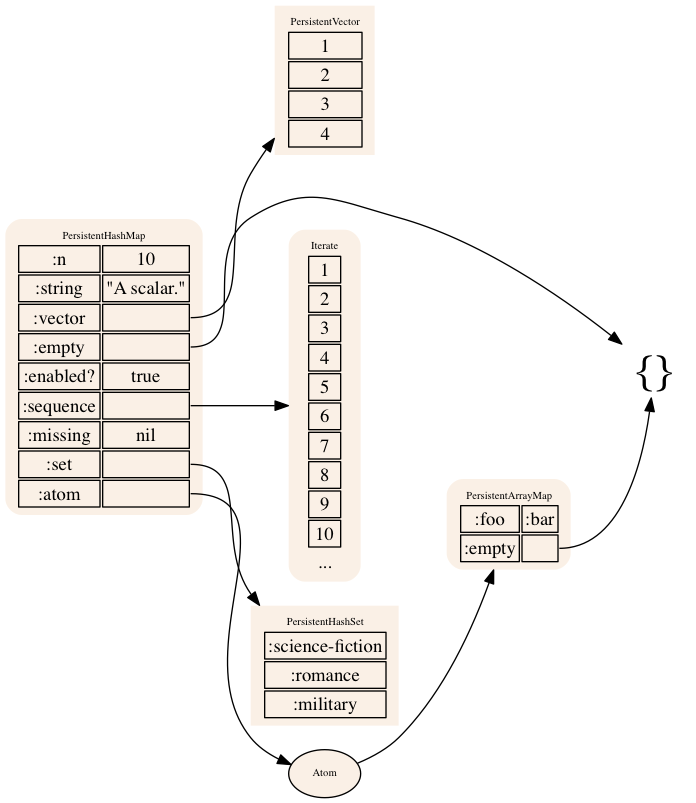
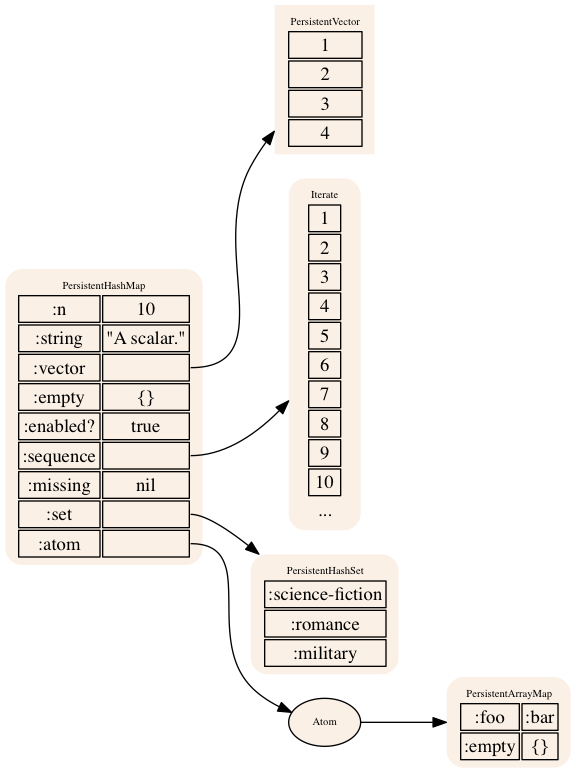
Render empty collections as if scalars

diff --git a/README.md b/README.md
@@ -37,8 +37,6 @@ that displays the following:
 
 * Composite types are labeled with their (abbreviated) type.
 
-* The empty map, vector, hash, and sequence values are rendered specially.
-
 * Refs, such as Atoms and Vars, are supported.
 
 * Sequences are abbreviated; Maps, Sets, and Vectors are always fully rendered.

diff --git a/CHANGELOG.md b/CHANGELOG.md
@@ -1,3 +1,7 @@
+## 0.1.1 - UNRELEASED
+
+Empty collections now render as if they were scalars.
+
 ## 0.1.0 - 17 Jun 2016
 
 Initial release
